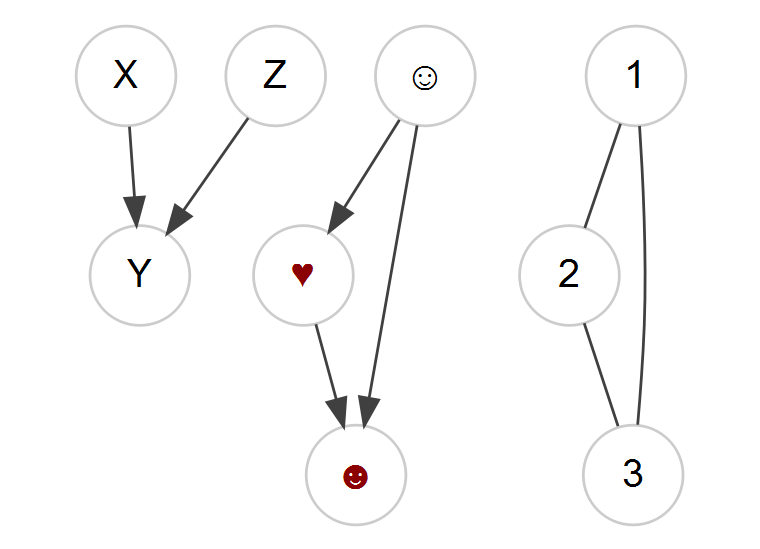
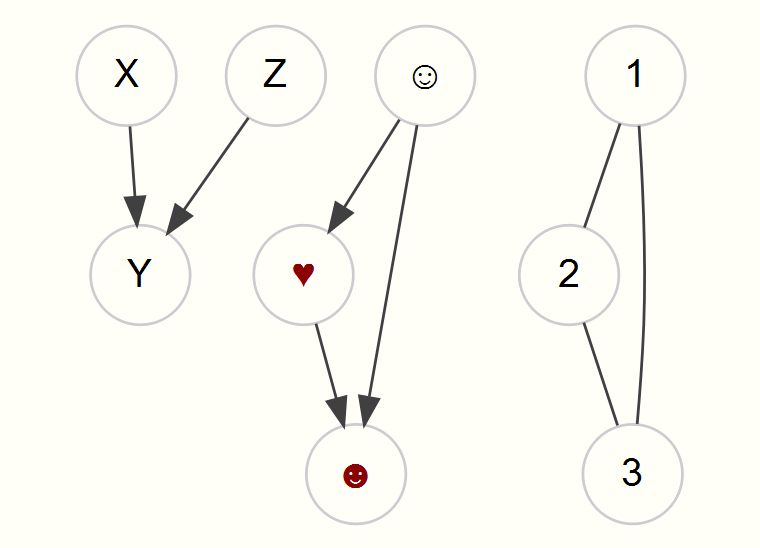
Begin update of visuals

diff --git a/book.css b/book.css
@@ -1,0 +1,69 @@
+@import url("http://fonts.googleapis.com/css?family=Roboto");
+
+.book  {
+  background-color: #fffff8;
+  color: red;
+}
+
+.section {
+  background-color: #fffff8;
+}
+
+.book .book-body .page-wrapper .page-inner section.normal {
+    display: block;
+    background-color: #fffff8;
+    color: #595959;
+    padding: 5px 15px;
+    font-family: Roboto;
+    word-wrap: break-word;
+    overflow: hidden;
+    line-height: 1.7;
+    text-size-adjust: 100%;
+    -ms-text-size-adjust: 100%;
+    -webkit-text-size-adjust: 100%;
+    -moz-text-size-adjust: 100%;
+}
+
+.body-inner {
+    background-color: #fffff8;
+}
+
+.book .book-body .page-wrapper {
+    position: relative;
+    outline: 0;
+    background-color: #fffff8;
+}
+
+.book .book-body .page-wrapper .page-inner {
+    max-width: 900px;
+    margin: 0 auto;
+    padding: 20px 0 40px;
+}
+
+.book .book-header {
+    overflow: visible;
+    height: 50px;
+    padding: 0 8px;
+    z-index: 2;
+    font-family: Roboto sans-serif;
+    font-size: .85em;
+    color: #7e888b;
+    background-color: #fffff8;
+    /* background: 0 0; */
+}
+
+element .style {
+  background-color: #fffff8;
+}
+
+.book.with-summary .book-header.fixed {
+  background-color: #fffff8;
+}
+
+i {
+  background-color: #fffff8;
+}
+
+.book .book-summary ul.summary li a:hover, .book .book-summary ul.summary li.active>a {
+  color: #9E1B34;  /*#6197D5*/
+}

diff --git a/sem.css b/sem.css
@@ -25,6 +25,7 @@ a {
 
 body {
   color: #595959;
+  background: none transparent;
 }
 
 p {
@@ -92,6 +93,15 @@ h1, h2, h3, h4, h5 {
 
 
 div.datatables {
-    margin-left: auto;     /* to center them when full is not necessary. */
-    margin-right: auto;
+  margin-left: auto;     /* to center them when full is not necessary. */
+  margin-right: auto;
+}
+
+.graph {
+  background-color: transparent;
+}
+
+polygon {
+    background: transparent;
+    fill: none;   /* ignore rstudio warning, this is necessary to change Diagrammer to transparent background*/
 }
